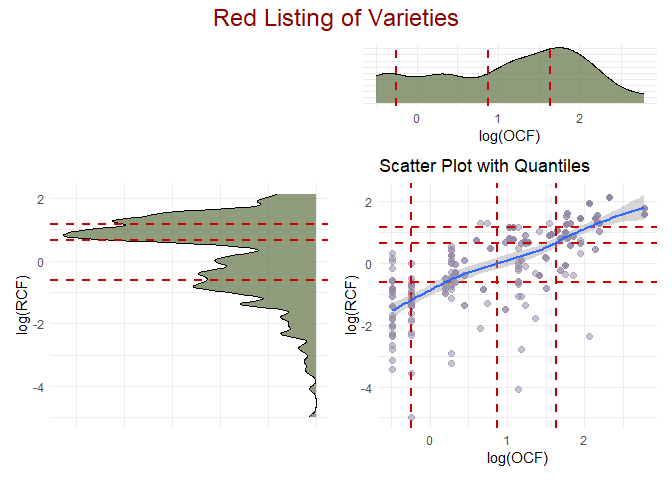
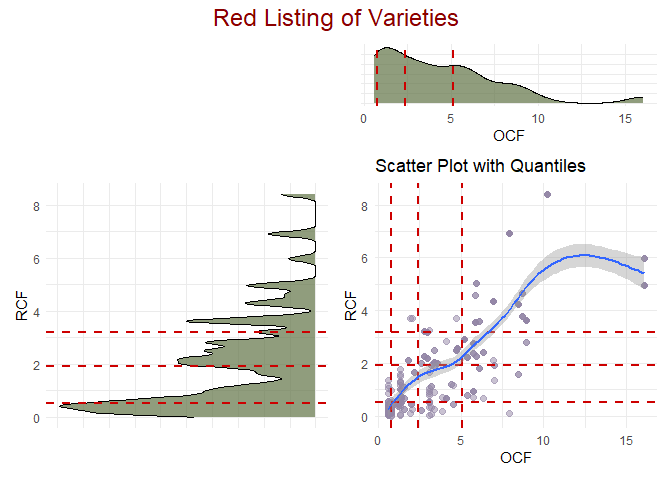
commit

diff --git a/README.md b/README.md
@@ -70,14 +70,23 @@ print(head(rcf_data))
 #> 6 variety_448  Farmer_… Umana     Paucart…     171          0.274       27 1.01
 ```
 
-Now, we can plot the OCF and RCF values:
+Now, we can plot the OCF and RCF values in normal scale:
+
+``` r
+
+Plot_Variable_Red_Listing(ocf_data, rcf_data,type = "normal")
+```
+
+<img src="man/figures/README-unnamed-chunk-2-1.png" width="100%" />
+
+Or in log scale:
 
 ``` r
 
 Plot_Variable_Red_Listing(ocf_data, rcf_data,type = "log")
 ```
 
-<img src="man/figures/README-unnamed-chunk-2-1.png" width="100%" />
+<img src="man/figures/README-unnamed-chunk-3-1.png" width="100%" />
 
 If we need to get the varieties inside each quadrant we can do it by
 using the function `Get_Red_Listing`.
